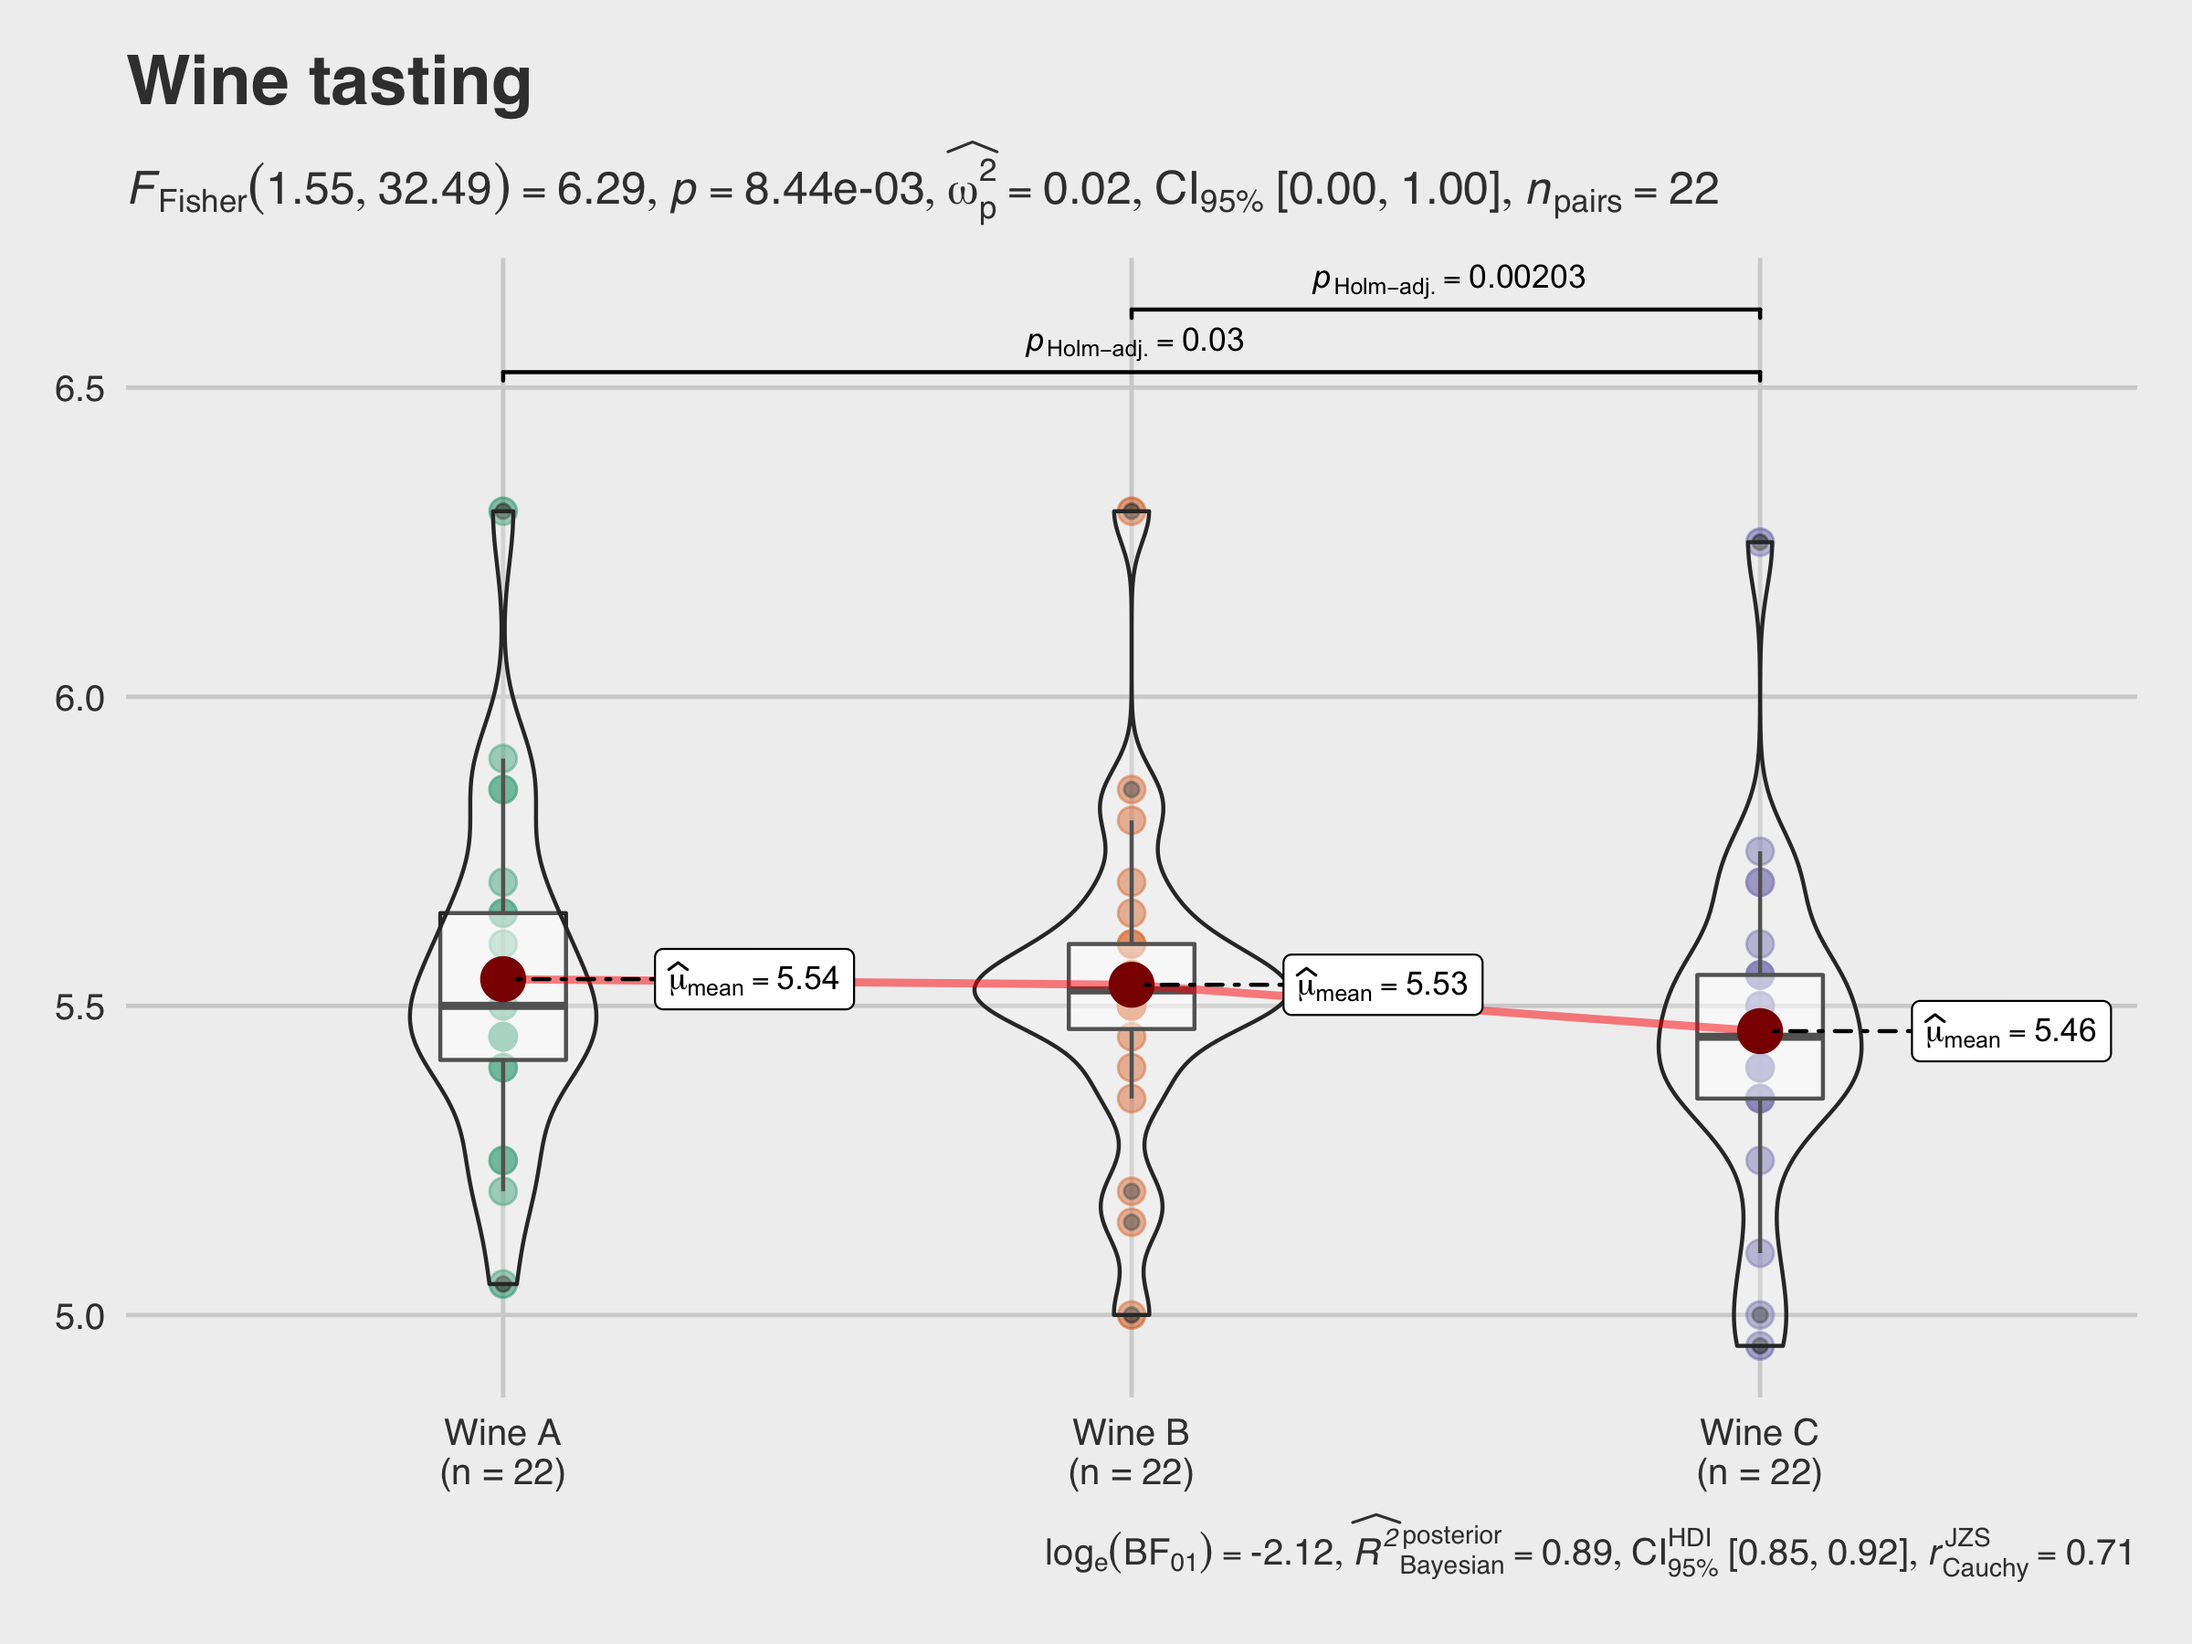
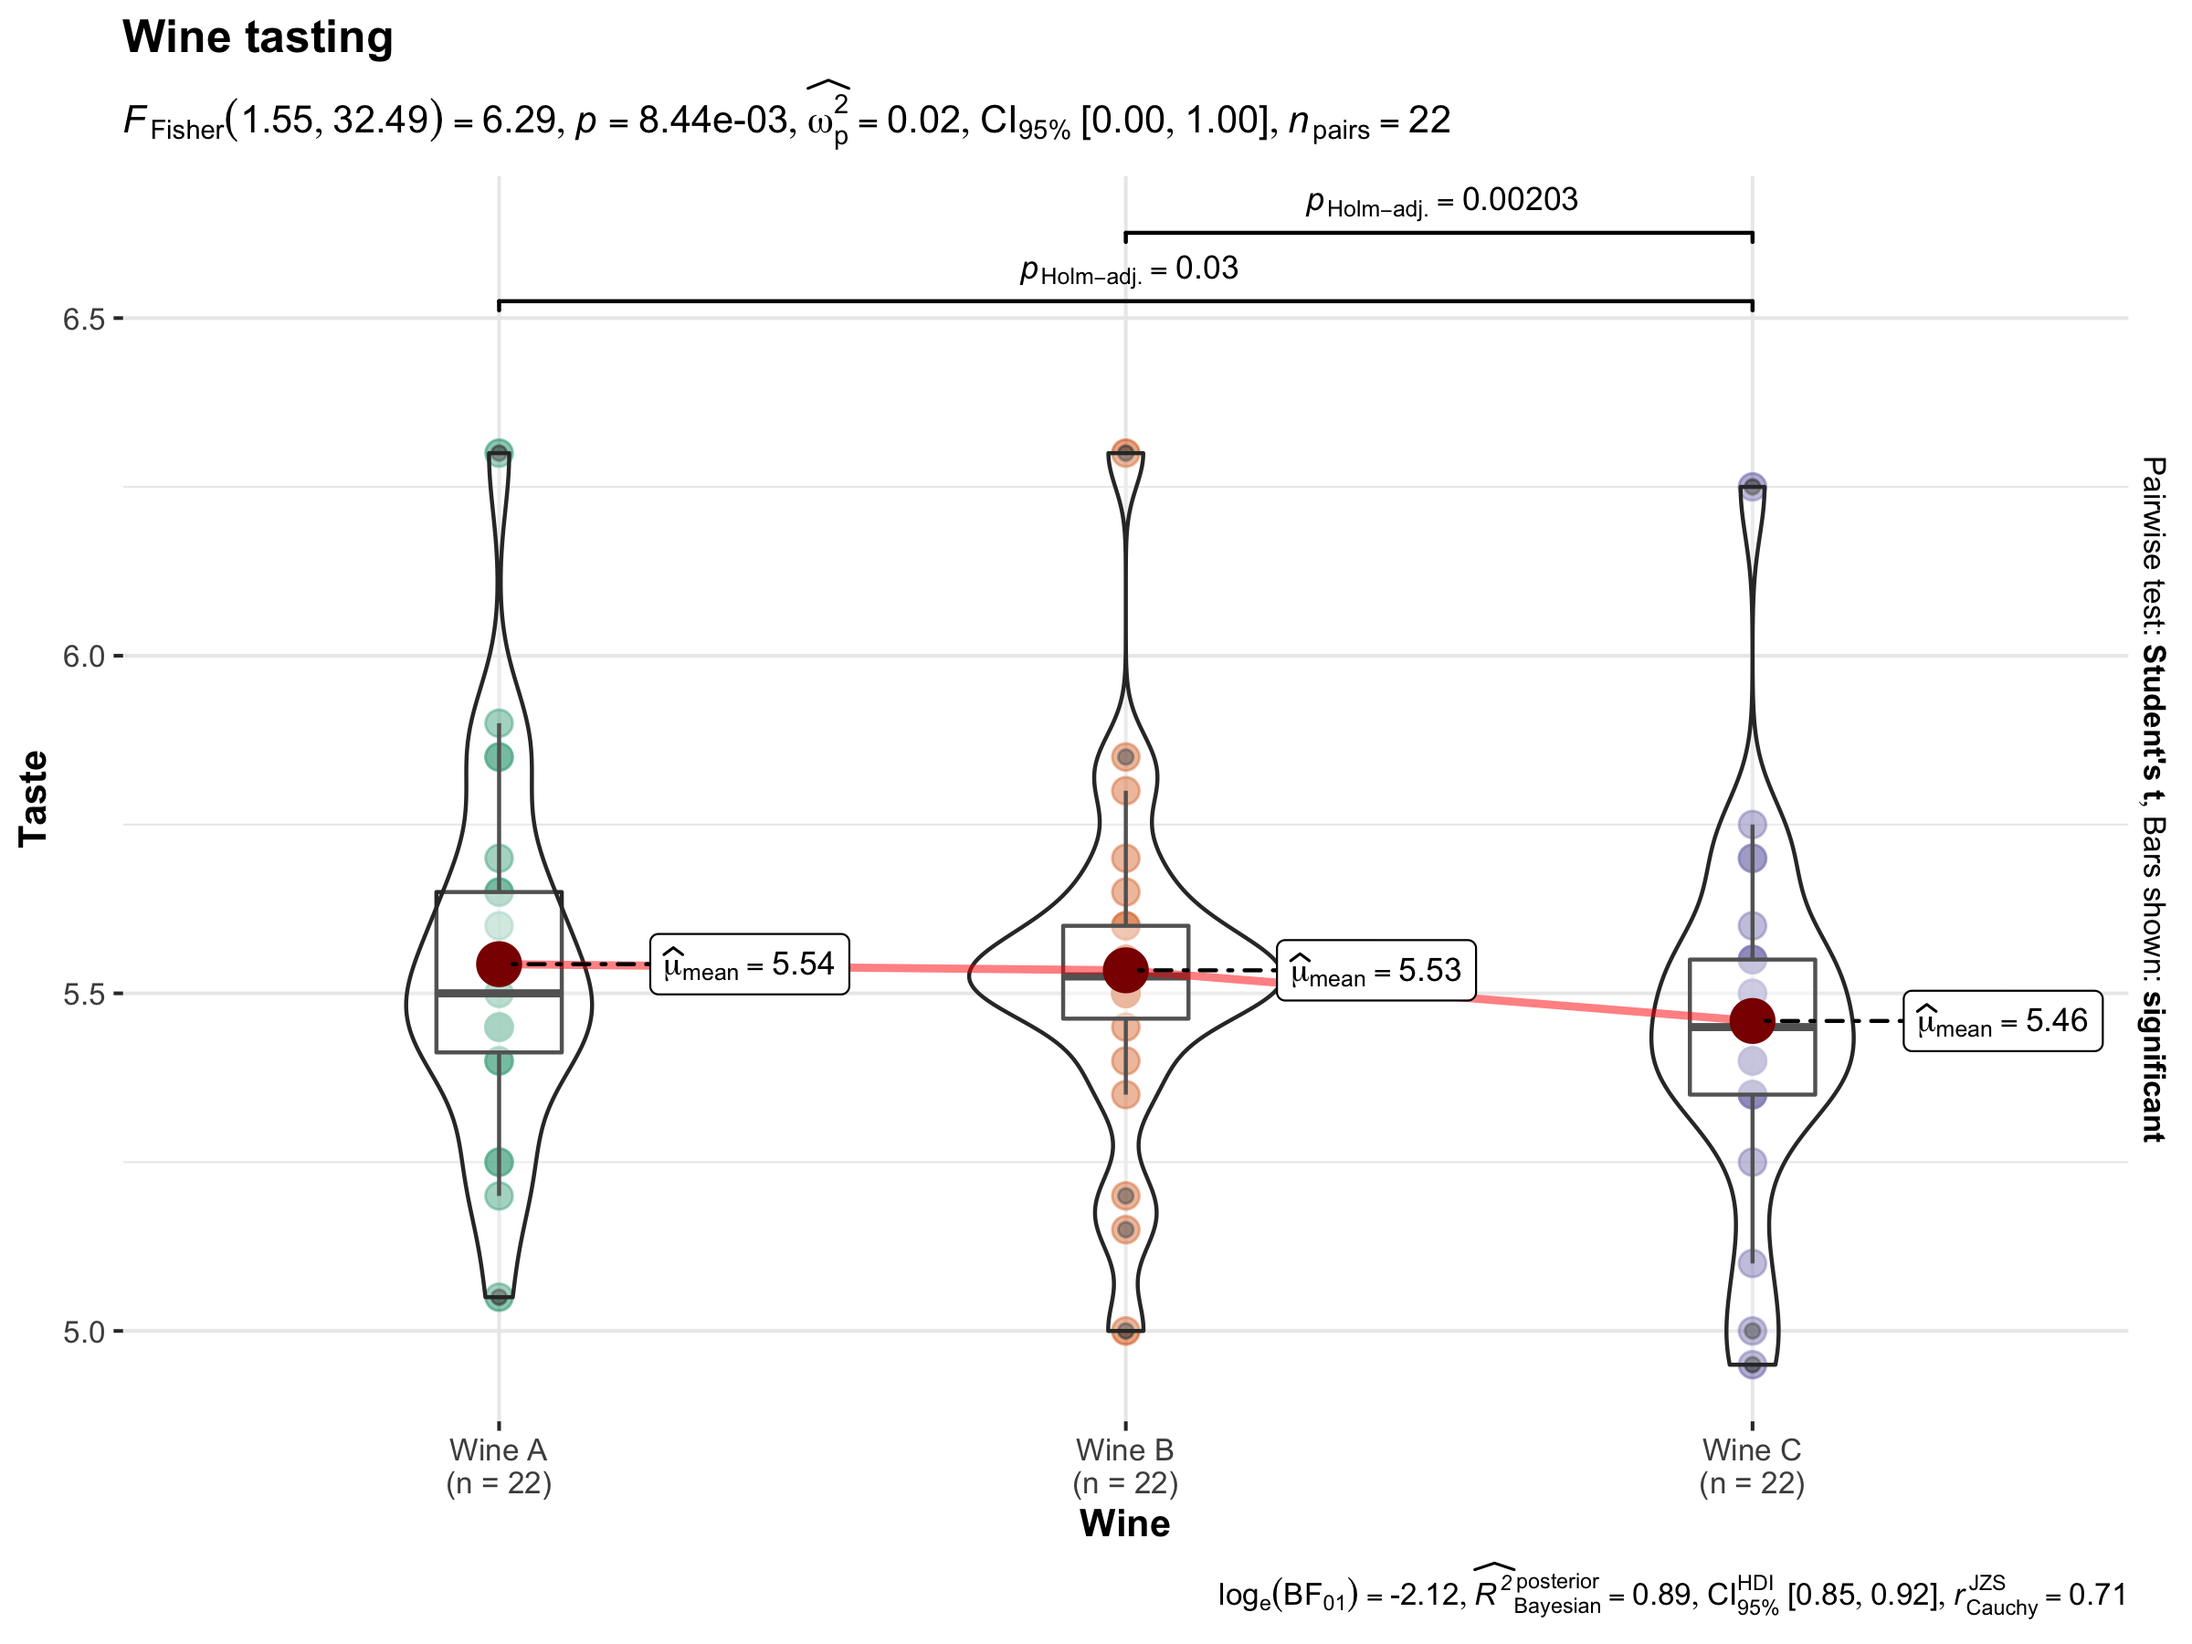
add clarification to ggtheme parameter

diff --git a/README.md b/README.md
@@ -296,8 +296,7 @@ ggwithinstats(
   data    = WineTasting,
   x       = Wine,
   y       = Taste,
-  title   = "Wine tasting",
-  ggtheme = ggthemes::theme_fivethirtyeight()
+  title   = "Wine tasting"
 )
 ```
 
